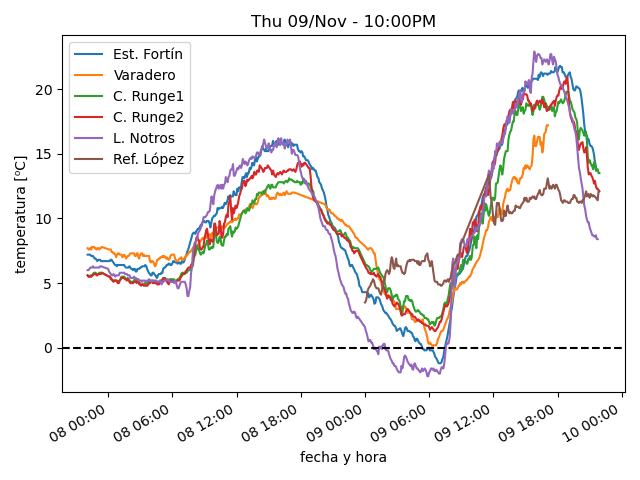
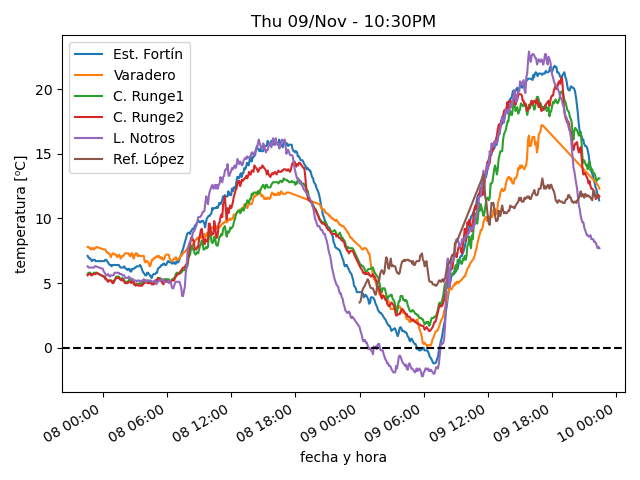
actualiza datos

diff --git a/estaciones/estacion2.html b/estaciones/estacion2.html
@@ -18,32 +18,32 @@
     </tr>
     <tr>
      <td class="stats_data">
-      5:06PM
+      10:24PM
      </td>
     </tr>
     <tr>
      <td class="stats_data">
-      17.2⁰C
+      12.3⁰C
      </td>
     </tr>
     <tr>
      <td class="stats_data">
-      0.2⁰C
+      1.3⁰C
      </td>
     </tr>
     <tr>
      <td class="stats_data">
-      31.5%
+      47.1%
      </td>
     </tr>
     <tr>
      <td class="stats_data">
-      1003.73hPa
+      1013.55hPa
      </td>
     </tr>
     <tr>
      <td class="stats_data">
-      7.2/9.0 km/hr NW
+      2.9/3.7 km/hr SSW
      </td>
     </tr>
     <tr>
@@ -53,12 +53,12 @@
     </tr>
     <tr>
      <td class="stats_data">
-      5.0
+      0.0
      </td>
     </tr>
     <tr>
      <td class="stats_data">
-      524.5 W/m²
+      0.0 W/m²
      </td>
     </tr>
    </tbody>

diff --git a/estaciones/estacion6.html b/estaciones/estacion6.html
@@ -18,32 +18,32 @@
     </tr>
     <tr>
      <td class="stats_data">
-      9:50PM
+      10:20PM
      </td>
     </tr>
     <tr>
      <td class="stats_data">
-      12.1⁰C
+      11.6⁰C
      </td>
     </tr>
     <tr>
      <td class="stats_data">
-      -1.1⁰C
+      -1.9⁰C
      </td>
     </tr>
     <tr>
      <td class="stats_data">
-      40.0%
+      39.0%
      </td>
     </tr>
     <tr>
      <td class="stats_data">
-      1007.08hPa
+      1007.04hPa
      </td>
     </tr>
     <tr>
      <td class="stats_data">
-      20.9/30.6 km/hr NW
+      1.6/4.8 km/hr W
      </td>
     </tr>
     <tr>
@@ -58,7 +58,7 @@
     </tr>
     <tr>
      <td class="stats_data">
-      901.0 W/m²
+      900.0 W/m²
      </td>
     </tr>
    </tbody>

diff --git a/estaciones/estacion4.html b/estaciones/estacion4.html
@@ -18,32 +18,32 @@
     </tr>
     <tr>
      <td class="stats_data">
-      9:54PM
+      10:24PM
      </td>
     </tr>
     <tr>
      <td class="stats_data">
-      12.1⁰C
+      11.7⁰C
      </td>
     </tr>
     <tr>
      <td class="stats_data">
-      1.8⁰C
+      1.9⁰C
      </td>
     </tr>
     <tr>
      <td class="stats_data">
-      49.2%
+      51.0%
      </td>
     </tr>
     <tr>
      <td class="stats_data">
-      1008.23hPa
+      1008.43hPa
      </td>
     </tr>
     <tr>
      <td class="stats_data">
-      0.9/1.7 km/hr SSW
+      0.7/1.2 km/hr SSW
      </td>
     </tr>
     <tr>

diff --git a/estaciones/estacion3.html b/estaciones/estacion3.html
@@ -18,32 +18,32 @@
     </tr>
     <tr>
      <td class="stats_data">
-      9:54PM
+      10:24PM
      </td>
     </tr>
     <tr>
      <td class="stats_data">
-      13.5⁰C
+      13.1⁰C
      </td>
     </tr>
     <tr>
      <td class="stats_data">
-      1.9⁰C
+      2.2⁰C
      </td>
     </tr>
     <tr>
      <td class="stats_data">
-      45.2%
+      47.8%
      </td>
     </tr>
     <tr>
      <td class="stats_data">
-      999.12hPa
+      999.42hPa
      </td>
     </tr>
     <tr>
      <td class="stats_data">
-      1.2/1.7 km/hr SSW
+      2.8/3.1 km/hr SW
      </td>
     </tr>
     <tr>

diff --git a/estaciones/estacion1.html b/estaciones/estacion1.html
@@ -18,22 +18,22 @@
     </tr>
     <tr>
      <td class="stats_data">
-      9:38PM
+      10:23PM
      </td>
     </tr>
     <tr>
      <td class="stats_data">
-      13.7⁰C
+      11.4⁰C
      </td>
     </tr>
     <tr>
      <td class="stats_data">
-      0.4⁰C
+      0.2⁰C
      </td>
     </tr>
     <tr>
      <td class="stats_data">
-      40.0%
+      46.0%
      </td>
     </tr>
     <tr>
@@ -43,7 +43,7 @@
     </tr>
     <tr>
      <td class="stats_data">
-      4.8/7.2 km/hr N
+      3.9/4.0 km/hr N
      </td>
     </tr>
     <tr>

diff --git a/estaciones/estacion5.html b/estaciones/estacion5.html
@@ -18,27 +18,27 @@
     </tr>
     <tr>
      <td class="stats_data">
-      9:45PM
+      10:25PM
      </td>
     </tr>
     <tr>
      <td class="stats_data">
-      8.4⁰C
+      7.7⁰C
      </td>
     </tr>
     <tr>
      <td class="stats_data">
-      1.9⁰C
+      2.1⁰C
      </td>
     </tr>
     <tr>
      <td class="stats_data">
-      64.0%
+      68.0%
      </td>
     </tr>
     <tr>
      <td class="stats_data">
-      1008.7hPa
+      1009.48hPa
      </td>
     </tr>
     <tr>
